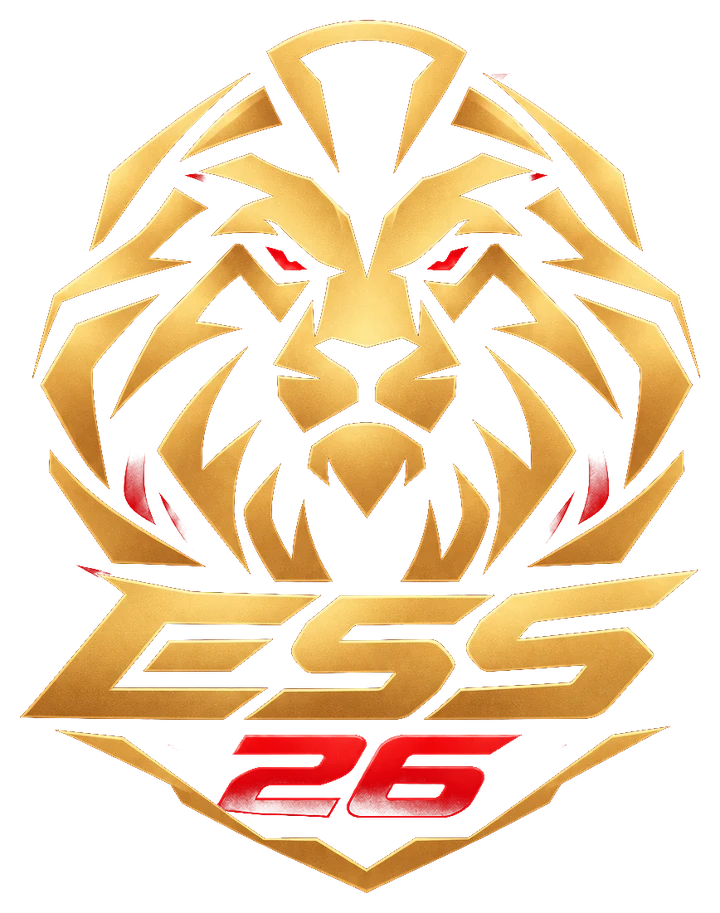
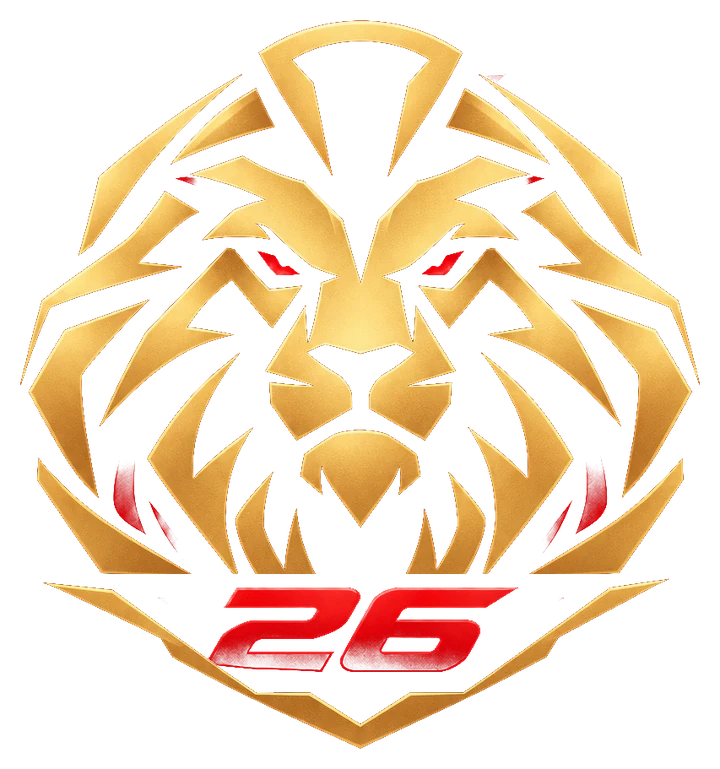
Fix the finish transition and ship the 26-only emblem
- Finish chapter: the car keeps its speed into the contact section,
  crosses the line and brakes to a stop instead of freezing on arrival
- Start/finish gantry stands on two legs instead of floating mid-air
- Emblem without the ESS lettering (the previous commit carried the
  old image and aspect ratio)

Claude-Session: https://claude.ai/code/session_01MU1MGdhAVLeL4y8YK6Xo5B

diff --git a/src/components/scene/TrackScene.tsx b/src/components/scene/TrackScene.tsx
@@ -359,9 +359,19 @@ export function TrackScene({ dim = false, routeKey = "" }: { dim?: boolean; rout
       // start gantry
       const gp = curve.getPointAt(GANTRY_U);
       const gt = curve.getTangentAt(GANTRY_U);
-      const gantry = new THREE.Mesh(track(new THREE.BoxGeometry(0.9, 1.4, 22)), dark);
-      gantry.position.set(gp.x, 7.2, gp.z);
+      // start/finish gantry: a beam on two legs
+      const gantry = new THREE.Group();
+      gantry.position.set(gp.x, 0, gp.z);
       gantry.rotation.y = Math.atan2(-gt.z, gt.x);
+      const beam = new THREE.Mesh(track(new THREE.BoxGeometry(0.9, 1.4, 22)), dark);
+      beam.position.y = 7.2;
+      const legGeo = track(new THREE.BoxGeometry(0.7, 7.9, 0.7));
+      gantry.add(beam);
+      for (const s of [-1, 1]) {
+        const leg = new THREE.Mesh(legGeo, dark);
+        leg.position.set(0, 3.95, s * 11.35);
+        gantry.add(leg);
+      }
       scene.add(gantry);
 
       // lights (direct + reflected)
@@ -638,11 +648,11 @@ export function TrackScene({ dim = false, routeKey = "" }: { dim?: boolean; rout
             break;
           }
           default: {
-            // finish: the chequered flag on the gantry, car crossing the line
-            const u = 0.988 + t * 0.022;
-            at(u, camTarget).y = 1.4;
-            placeCarOnTrack(u + 12 / L + t * 0.008);
-            at(GANTRY_U, lookTarget).y = 5.8;
+            // finish: chase the car across the line under the flag, then let it brake to a stop
+            const u = 0.975 + t * 0.03 + finishRoll;
+            placeCarOnTrack(u);
+            at(u - 10 / L, camTarget).y = 1.5;
+            at(u + 30 / L, lookTarget).y = 1.7;
           }
         }
       };
@@ -665,6 +675,7 @@ export function TrackScene({ dim = false, routeKey = "" }: { dim?: boolean; rout
       let speed = 0;
       let dimT = 0;
       let drive = 0; // extra distance driven while sitting on the track chapter
+      let finishRoll = 0; // distance the car coasts on the finish chapter (eases to a stop)
       pose(shown, dimRef.current ? 0.5 : first.t, 0);
       camPos.copy(camTarget);
       look.copy(lookTarget);
@@ -720,6 +731,9 @@ export function TrackScene({ dim = false, routeKey = "" }: { dim?: boolean; rout
           if (jump >= 1) jump = -1;
         }
         if (shown === 4 && !reduce) drive = Math.min(drive + dt * 0.0035, 0.06);
+        // arrives at racing speed (~130 km/h) and brakes past the line; replays on every visit
+        if (shown === 5 && !reduce) finishRoll += (0.07 - finishRoll) * (1 - Math.exp(-dt * 0.45));
+        else if (shown !== 5) finishRoll = 0;
 
         pose(shown, read.t, time);
         if (jump >= 0 && !swapped) {

diff --git a/src/components/scene/world.ts b/src/components/scene/world.ts
@@ -244,7 +244,7 @@ function starGeometry(THREE: Three, outer: number, inner: number) {
 
 /* ── the ESS 26 emblem ───────────────────────────── */
 const EMBLEM_SRC = "/images/brand/ess26-emblem.webp";
-const EMBLEM_ASPECT = 720 / 913; // width / height of the image
+const EMBLEM_ASPECT = 720 / 769; // width / height of the image
 
 const emblemVert = /* glsl */ `
   varying vec2 vUv;
